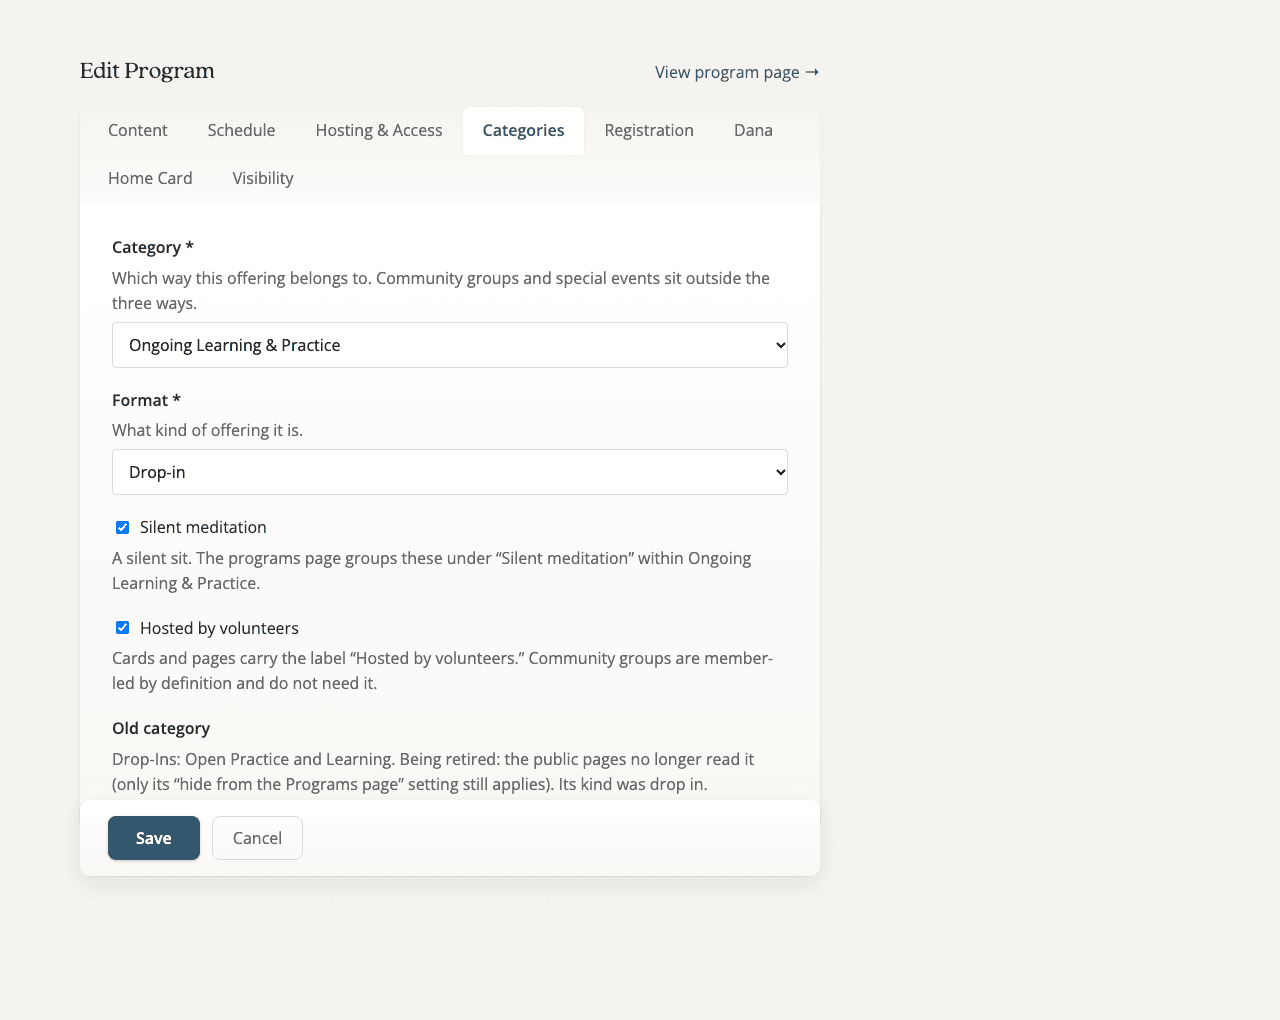
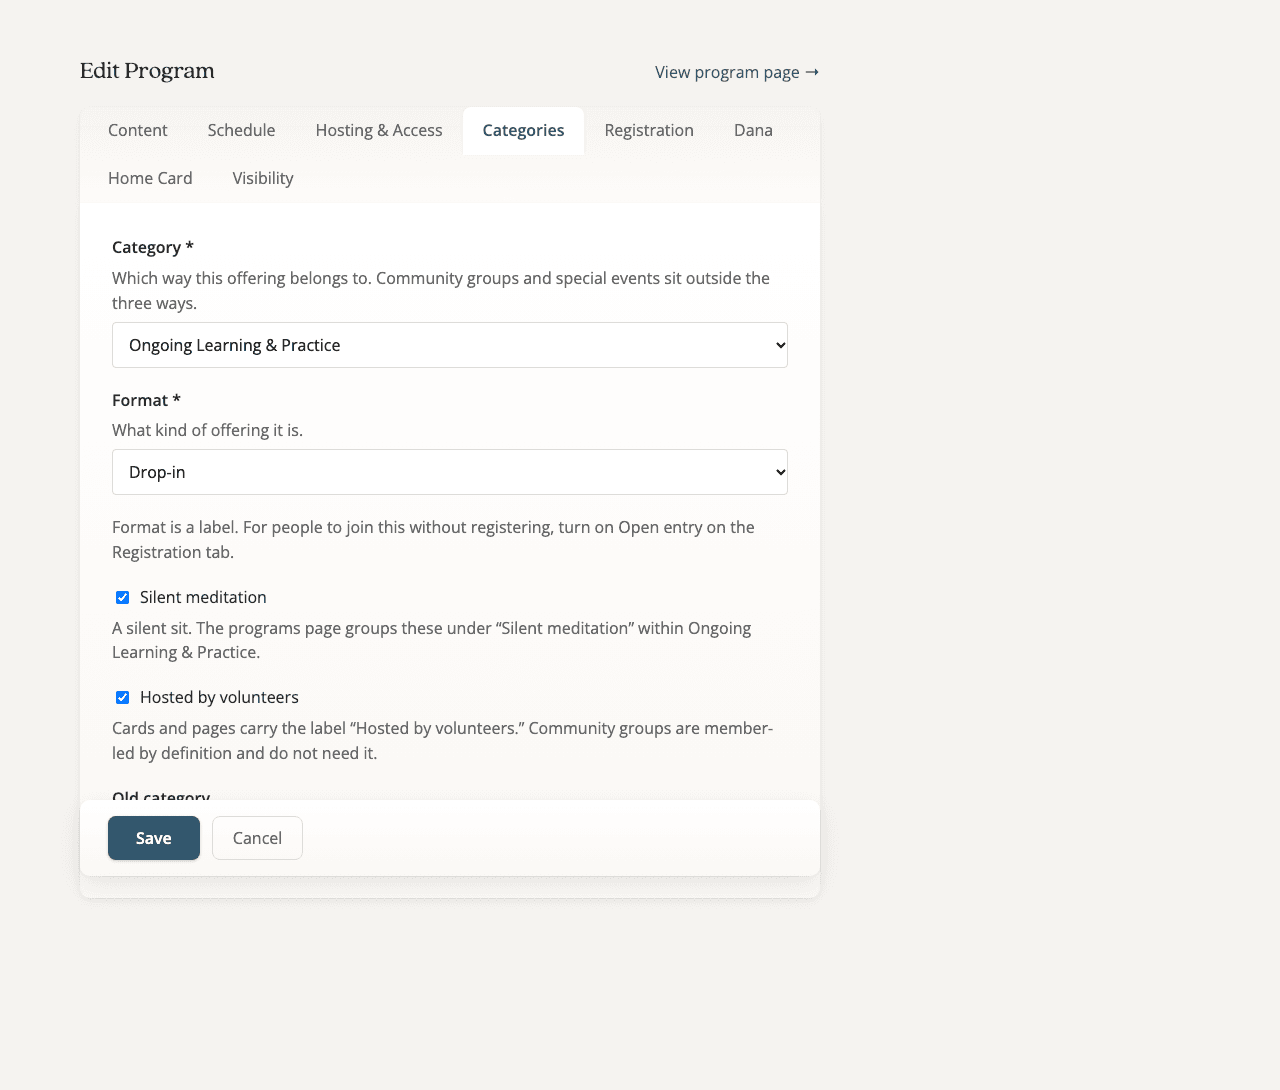
Review fixes for Open entry: honest readouts, categories manager copy, 44px targets, migrate hardening
- Registration-tab readout and the checkbox help now follow the program's delivery (in person,
  hybrid, Zoom) and agree with the Visibility tab, instead of claiming Today for every program.
- A Drop-in with Open entry off says so on the Categories tab (Format is a label).
- The Program Categories manager says the old categories are legacy and where access lives now.
- Registration and Visibility checkbox options are 44px tall (measured at desktop and phone).
- The openEntry column is added outside the earlier flag block, so it lands on any build.

diff --git a/components/registrar/ProgramEditor.tsx b/components/registrar/ProgramEditor.tsx
@@ -1021,6 +1021,14 @@ export default function ProgramEditor({
   const droppableNow = openEntry;
   // Memoized so it recomputes only when its inputs change, not on every
   // keystroke elsewhere in the editor.
+  // What Open entry means for THIS program's delivery (matches the Visibility tab).
+  const openEntryText = openEntry
+    ? programFormat === "in-person"
+      ? "Anyone may simply arrive in person, without registering. It carries the Drop-in mark on This Week."
+      : programFormat === "hybrid"
+        ? "Anyone may simply arrive in person, and anyone signed in may join on Zoom, without registering. On the days it meets it appears on My Home\u2019s Today for everyone (see Visibility) and carries the Drop-in mark on This Week."
+        : "Anyone signed in may join on Zoom without registering. On the days it meets it appears on My Home\u2019s Today for everyone (see Visibility) and carries the Drop-in mark on This Week."
+    : "People join by registering. Hosts and teachers always have access. It carries no Drop-in mark.";
   const appearanceText = useMemo(() => {
     const deadlinePast = registrationDeadline
       ? new Date(registrationDeadline) < new Date()
@@ -1964,6 +1972,12 @@ export default function ProgramEditor({
               </select>
             </label>
 
+            {offeringFormat === "DROP_IN" && !openEntry && (
+              <div className="pe-field">
+                <span className="pe-field__help">Format is a label. For people to join this without registering, turn on Open entry on the Registration tab.</span>
+              </div>
+            )}
+
             {offeringFormat === "DROP_IN" && (
               <div className="pe-field">
                 <label className="pe-checkbox">
@@ -2018,9 +2032,7 @@ export default function ProgramEditor({
               <p className="pe-readout__row">{appearanceText}</p>
               <p className="pe-readout__row">
                 <span className="pe-readout__state">Open entry: {openEntry ? "on" : "off"}.</span>{" "}
-                {openEntry
-                  ? "Anyone signed in may join, in person or on Zoom, without registering. It appears on My Home\u2019s Today for everyone and carries the Drop-in mark on This Week."
-                  : "Joining is for registrants, hosts, and teachers. It does not appear on My Home\u2019s Today for everyone, and carries no Drop-in mark."}
+                {openEntryText}
               </p>
               {isOfferingCategory(offeringCategory) && (
                 <p className="pe-readout__row pe-readout__row--meta">
@@ -2063,7 +2075,7 @@ export default function ProgramEditor({
                 />
                 <span className="pe-checkbox__label">Open entry</span>
               </label>
-              <p className="pe-field__help">Anyone signed in may join, in person or on Zoom, without registering. It appears on My Home&rsquo;s Today for everyone and carries the Drop-in mark on This Week. A program can have registration and open entry together. This is the only setting that decides access: Category and Format are labels.</p>
+              <p className="pe-field__help">Anyone signed in may join without registering: simply arrive for an in-person program, or join on Zoom for an online one. Online programs with open entry also appear on My Home&rsquo;s Today for everyone, and every program with open entry carries the Drop-in mark on This Week. A program can have registration and open entry together. This is the only setting that decides access: Category and Format are labels.</p>
             </div>
 
             <hr className="pe-section-divider" />

diff --git a/components/registrar/CategoryOrderClient.tsx b/components/registrar/CategoryOrderClient.tsx
@@ -160,12 +160,13 @@ export default function CategoryOrderClient({ categories: initial }: { categorie
     <div className="catord">
       <h1 className="catord__title">Program Categories</h1>
       <p className="catord__desc">
-        Each category is a section heading on the public Programs &amp; Events page, and carries a{" "}
-        <strong>kind</strong> — what the offerings in it <em>are</em> (a drop-in, a class, a
-        retreat&hellip;). The kind decides where a program shows up: the community schedule anyone
-        can join, vs. a member&rsquo;s &ldquo;Coming up for you&rdquo; after they register. The name
-        is just the heading; the kind is the behavior. Rename, set the kind, reorder, add, or remove
-        below — changes save as you go.
+        These are the <em>old</em> categories, kept until the move to Category and Format is
+        verified. They no longer set a program&rsquo;s section on the public Programs &amp; Events
+        page: a program&rsquo;s <strong>Category</strong> and <strong>Format</strong> are set in the
+        Program Manager, and who may join without registering is its <strong>Open entry</strong>{" "}
+        setting on the Registration tab. A category&rsquo;s <strong>kind</strong> now decides access
+        only for a program whose Open entry has never been set; hiding a category still hides its
+        programs from the public page. Changes save as you go.
       </p>
 
       <div className="catord__list">

diff --git a/public/css/custom.css b/public/css/custom.css
@@ -17068,7 +17068,7 @@ details[open] > .adm-man-summary .adm-man-summary__caret { transform: rotate(180
 .pe-visibility-option + .pe-visibility-option { margin-top: 0; }
 .pe-checkbox__label { font-size: var(--text-small); font-weight: 600; color: var(--rim-text); }
 .pe-visibility-option .pe-field__help { margin: 0; }
-.pe-visibility-option .pe-checkbox { align-items: flex-start; gap: 10px; }
+.pe-visibility-option .pe-checkbox { align-items: center; gap: 10px; min-height: 44px; }
 
 /* ── Derived readouts: "Where this program appears" (Visibility) and
       "How this appears to visitors" (Registration). Read-only statements of
